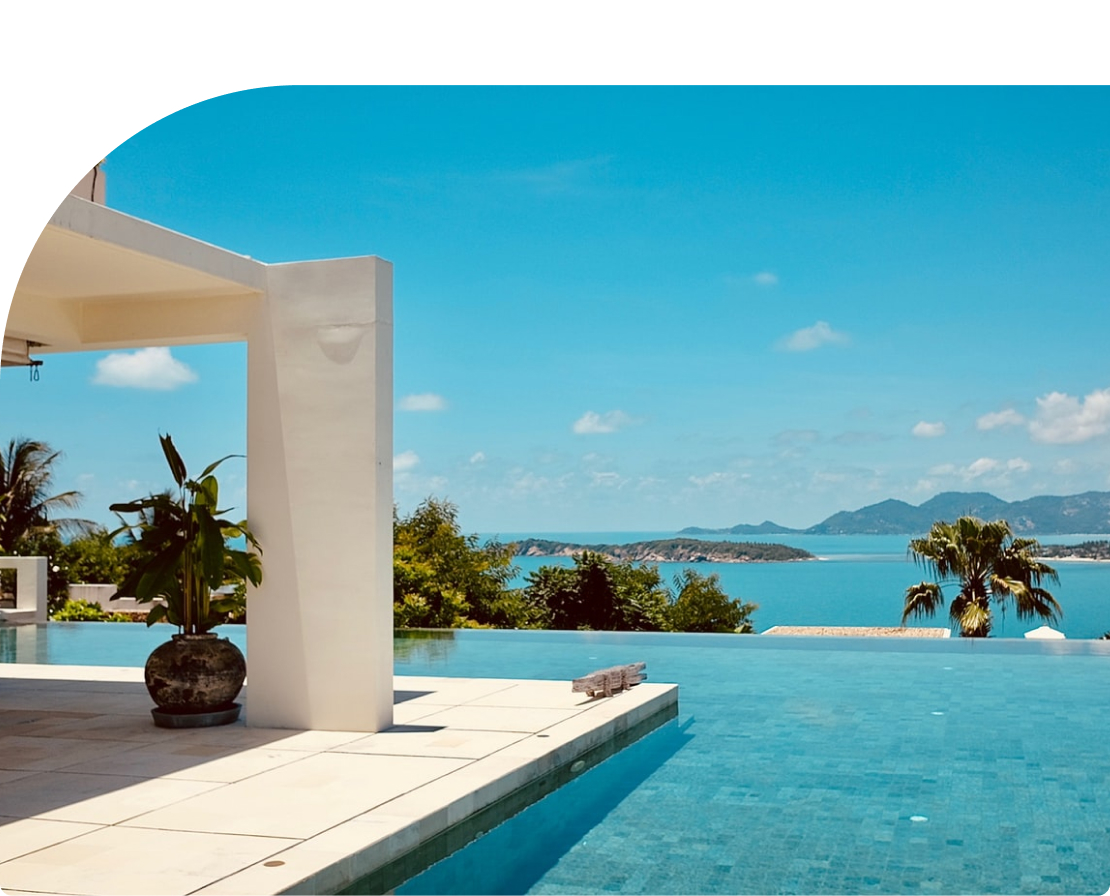
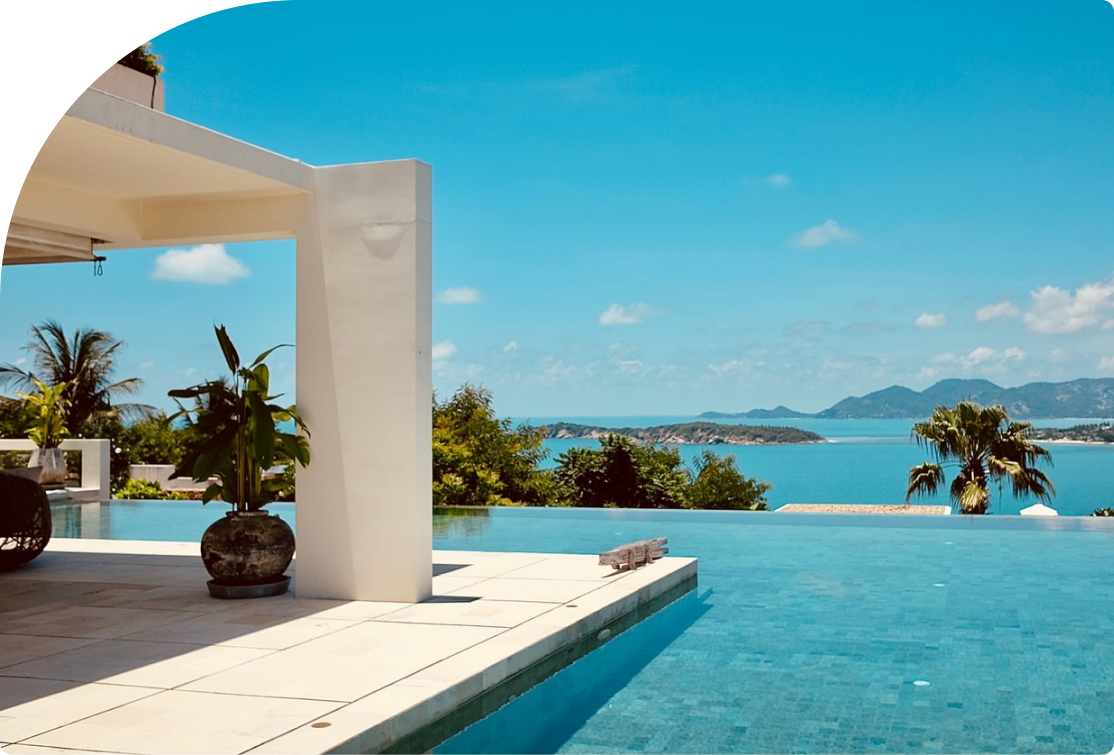
chapter 4 was finished (animation not including)

diff --git a/src/parts/Hero.js b/src/parts/Hero.js
@@ -5,6 +5,7 @@ import IconCities from "assets/image/icon/ic-cities.svg";
 import IconTraveller from "assets/image/icon/ic-traveller.svg";
 import IconTreasure from "assets/image/icon/ic-treasure.svg";
 
+import formatNumber from "utils/formatNumber";
 import Button from "elements/Button";
 export default function Hero(props) {
   function showMostPicked() {
@@ -15,15 +16,18 @@ export default function Hero(props) {
   }
 
   return (
-    <section className="container pt-4">
+    <section className="container">
       <div className="row align-items-center">
-        <div className="col-auto pr-5" style={{ width: 422 }}>
+        <div className="col-auto pr-5" style={{ width: 530 }}>
           {/* line-height-1 styling manual */}
-          <h1 className="h2 font-weight-bold line-height-1 mb-3">
+          <h1 className="font-weight-bold line-height-1 mb-3">
             Forget Busy work, <br />
             Start Next Vacation
           </h1>
-          <p className="mb-5 font-weight-light text-gray-500 w-75">
+          <p
+            className="mb-4 font-weight-light text-gray-500 w-75"
+            style={{ lineHeight: "170%" }}
+          >
             We provide what you need to enjoy your holiday with family. Time to
             make another memorable moments.
           </p>
@@ -36,8 +40,8 @@ export default function Hero(props) {
             Show Me Now
           </Button>
 
-          <div className="row mt-5">
-            <div className="col-auto">
+          <div className="row" style={{ marginTop: 80 }}>
+            <div className="col-auto" style={{ marginRight: 35 }}>
               <img
                 width="36"
                 height="36"
@@ -45,11 +49,11 @@ export default function Hero(props) {
                 alt={`${props.data.travelers} Traveller`}
               />
               <h6 className="mt-3">
-                {props.data.travelers}{" "}
+                {formatNumber(props.data.travelers)}{" "}
                 <span className="text-gray-500 font-weight-500">Traveller</span>
               </h6>
             </div>
-            <div className="col-auto">
+            <div className="col-auto" style={{ marginRight: 35 }}>
               <img
                 width="36"
                 height="36"
@@ -57,7 +61,7 @@ export default function Hero(props) {
                 alt={`${props.data.treasures} Treasure`}
               />
               <h6 className="mt-3">
-                {props.data.treasures}{" "}
+                {formatNumber(props.data.treasures)}{" "}
                 <span className="text-gray-500 font-weight-500">Treasure</span>
               </h6>
             </div>
@@ -69,10 +73,27 @@ export default function Hero(props) {
                 alt={`${props.data.cities} Cities`}
               />
               <h6 className="mt-3">
-                {props.data.cities}{" "}
+                {formatNumber(props.data.cities)}{" "}
                 <span className="text-gray-500 font-weight-500">Cities</span>
               </h6>
             </div>
+          </div>
+        </div>
+
+        <div className="col-6 pl-5">
+          <div style={{ width: 606, height: 458, marginTop: 80 }}>
+            <img
+              src={ImageHero}
+              alt="Room with couches"
+              className="img-fluid position-absolute"
+              style={{ margin: "-30px 0 0 -30px", zIndex: 1 }} //jika styling margin > 1 sisi, maka pake "" dan pake px. jika cuman 1 sisi styling margin, tidak perlu pake
+            />
+            <img
+              src={ImageHero_frame}
+              alt="Room with couches frame"
+              className="img-fluid position-absolute"
+              style={{ margin: "0 -20px -20px 0" }}
+            />
           </div>
         </div>
       </div>

diff --git a/src/assets/scss/_type.scss b/src/assets/scss/_type.scss
@@ -4,8 +4,18 @@
 // Headings
 //
 
-h1, h2, h3, h4, h5, h6,
-.h1, .h2, .h3, .h4, .h5, .h6 {
+h1,
+h2,
+h3,
+h4,
+h5,
+h6,
+.h1,
+.h2,
+.h3,
+.h4,
+.h5,
+.h6 {
   margin-bottom: $headings-margin-bottom;
   font-family: $headings-font-family;
   font-weight: $headings-font-weight;
@@ -13,12 +23,36 @@ h1, h2, h3, h4, h5, h6,
   color: $headings-color;
 }
 
-h1, .h1 { @include font-size($h1-font-size); }
-h2, .h2 { @include font-size($h2-font-size); }
-h3, .h3 { @include font-size($h3-font-size); }
-h4, .h4 { @include font-size($h4-font-size); }
-h5, .h5 { @include font-size($h5-font-size); }
-h6, .h6 { @include font-size($h6-font-size); }
+h1,
+.h1 {
+  @include font-size($h1-font-size);
+  line-height: 63px;
+}
+
+h2,
+.h2 {
+  @include font-size($h2-font-size);
+}
+
+h3,
+.h3 {
+  @include font-size($h3-font-size);
+}
+
+h4,
+.h4 {
+  @include font-size($h4-font-size);
+}
+
+h5,
+.h5 {
+  @include font-size($h5-font-size);
+}
+
+h6,
+.h6 {
+  @include font-size($h6-font-size);
+}
 
 .lead {
   @include font-size($lead-font-size);
@@ -31,16 +65,19 @@ h6, .h6 { @include font-size($h6-font-size); }
   font-weight: $display1-weight;
   line-height: $display-line-height;
 }
+
 .display-2 {
   @include font-size($display2-size);
   font-weight: $display2-weight;
   line-height: $display-line-height;
 }
+
 .display-3 {
   @include font-size($display3-size);
   font-weight: $display3-weight;
   line-height: $display-line-height;
 }
+
 .display-4 {
   @include font-size($display4-size);
   font-weight: $display4-weight;
@@ -89,6 +126,7 @@ mark,
 .list-inline {
   @include list-unstyled();
 }
+
 .list-inline-item {
   display: inline-block;
 

diff --git a/src/assets/scss/_buttons.scss b/src/assets/scss/_buttons.scss
@@ -10,13 +10,14 @@
   font-weight: $btn-font-weight;
   color: $body-color;
   text-align: center;
-  text-decoration: if($link-decoration == none, null, none);
+  min-height: 50px;
+  text-decoration: if($link-decoration==none, null, none);
   white-space: $btn-white-space;
   vertical-align: middle;
   user-select: none;
   background-color: transparent;
   border: $btn-border-width solid transparent;
-  @include button-size($btn-padding-y, $btn-padding-x, $btn-font-size, $btn-line-height, $btn-border-radius);
+  @include button-size($btn-padding-y, $btn-padding-x, $btn-font-size, $btn-line-height, 4px);
   @include transition($btn-transition);
 
   @include hover() {
@@ -49,6 +50,10 @@
       }
     }
   }
+
+  &.btn-shadow {
+    box-shadow: 0px 8px 15px rgba($primary, 0.3);
+  }
 }
 
 // Future-proof disabling of clicks on `<a>` elements
@@ -62,13 +67,15 @@ fieldset:disabled a.btn {
 // Alternate buttons
 //
 
-@each $color, $value in $theme-colors {
+@each $color,
+$value in $theme-colors {
   .btn-#{$color} {
     @include button-variant($value, $value);
   }
 }
 
-@each $color, $value in $theme-colors {
+@each $color,
+$value in $theme-colors {
   .btn-outline-#{$color} {
     @include button-outline-variant($value);
   }
@@ -127,7 +134,7 @@ fieldset:disabled a.btn {
   width: 100%;
 
   // Vertically space out multiple block buttons
-  + .btn-block {
+  +.btn-block {
     margin-top: $btn-block-spacing-y;
   }
 }

diff --git a/src/assets/scss/_variables.scss b/src/assets/scss/_variables.scss
@@ -246,18 +246,8 @@ $embed-responsive-aspect-ratios: join(((21 9),
 // Font, line-height, and color for body text, headings, and more.
 
 // stylelint-disable value-keyword-case
-$font-family-sans-serif: -apple-system,
-BlinkMacSystemFont,
-"Segoe UI",
-Roboto,
-"Helvetica Neue",
-Arial,
-"Noto Sans",
-sans-serif,
-"Apple Color Emoji",
-"Segoe UI Emoji",
-"Segoe UI Symbol",
-"Noto Color Emoji" !default;
+$font-family-sans-serif: 'Poppins',
+sans-serif !default;
 $font-family-monospace: SFMono-Regular,
 Menlo,
 Monaco,
@@ -281,7 +271,7 @@ $font-weight-bolder: bolder !default;
 $font-weight-base: $font-weight-normal !default;
 $line-height-base: 1.5 !default;
 
-$h1-font-size: $font-size-base * 2.5 !default;
+$h1-font-size: $font-size-base * 2.625 !default;
 $h2-font-size: $font-size-base * 2 !default;
 $h3-font-size: $font-size-base * 1.75 !default;
 $h4-font-size: $font-size-base * 1.5 !default;

diff --git a/src/utils/formatNumber.js b/src/utils/formatNumber.js
@@ -1,0 +1,5 @@
+//format thousand separator format dari browser untuk angka khusus wilayah indonesia
+export default (number) => {
+  const formatNumbering = new Intl.NumberFormat("id-ID");
+  return formatNumbering.format(number);
+};

diff --git a/src/assets/scss/style.scss b/src/assets/scss/style.scss
@@ -60,6 +60,7 @@ header {
     border-bottom: 1px solid $gray-200;
     width: 100%;
     position: relative;
+    margin-bottom: 25px;
 
     .navbar {
         height: 80px;
